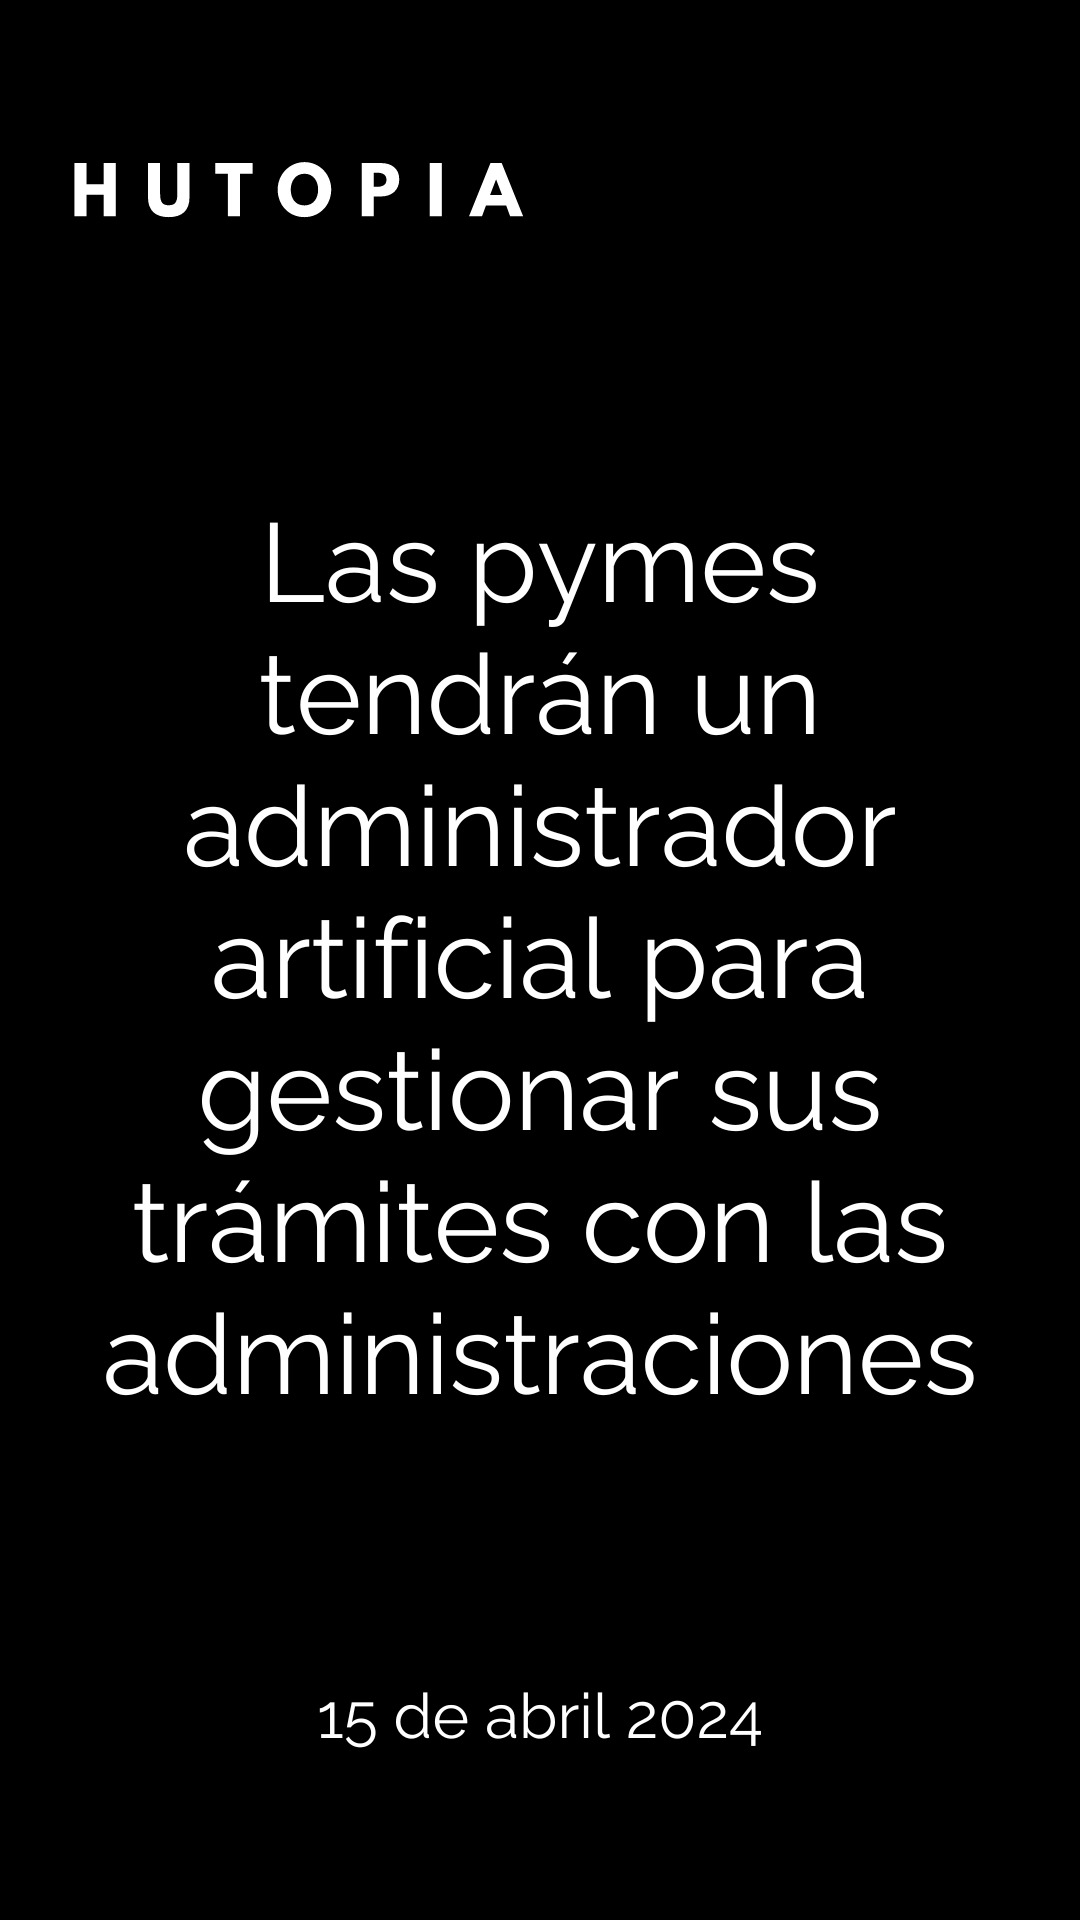
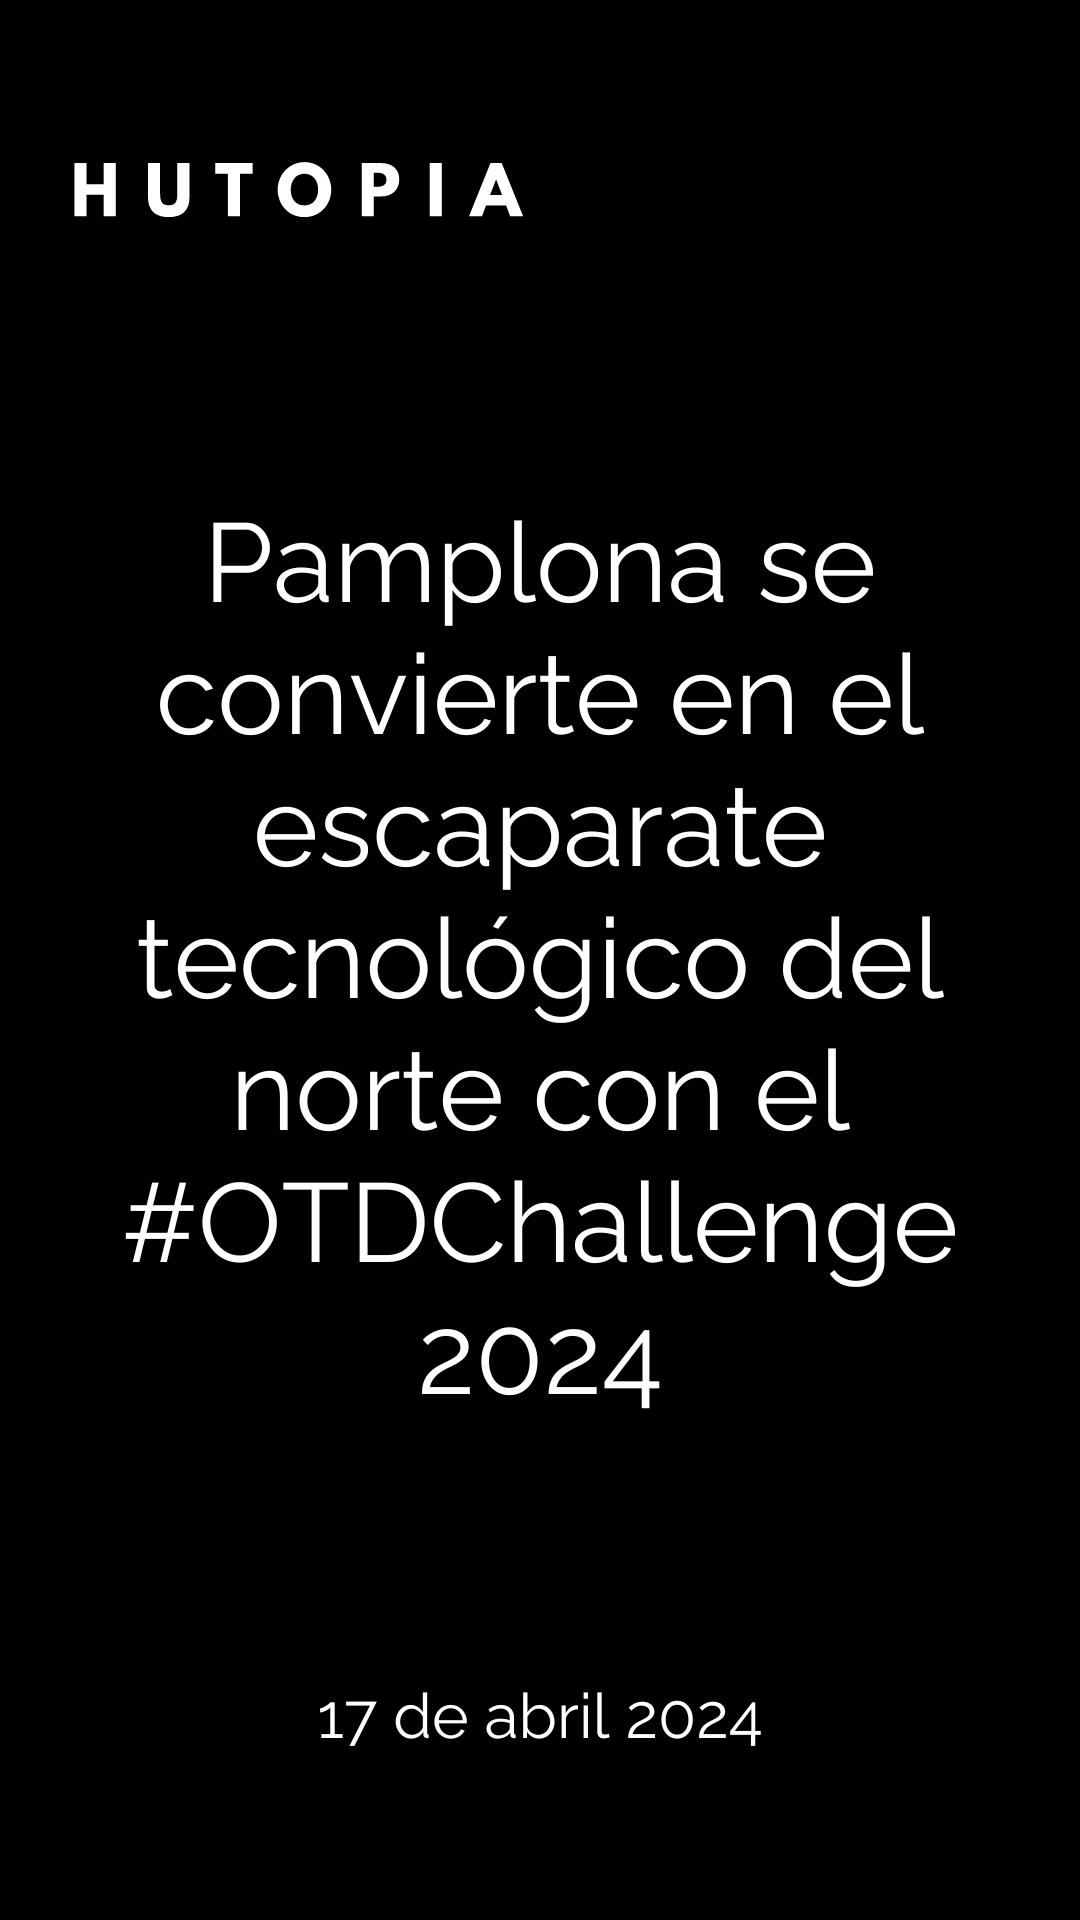
bubble 0td

diff --git a/bub20.html b/bub20.html
@@ -1,0 +1,333 @@
+<!doctype html>
+<html lang="es">
+    <head>
+        <meta charset="UTF-8">
+        <script src="https://kit.fontawesome.com/e4e5d6c1ee.js" crossorigin="anonymous"></script>
+        <title>HUTOPIA</title>
+        <link href="imagenes/PORFIN.svg" rel="shortcut icon">
+        <link href="imagenes/PORFIN.svg" rel="apple-touch-icon-precomposed">
+        <meta name="description" content="Una red humana para saltar al abismo de la Inteligencia Artificial"/>
+        <link rel="alternate" type="application/rss+xml" title="Feed de HUTOPIA" href="historias.xml">
+        <link rel="icon" href="imagenes/PORFIN.svg" sizes="32x32"/>
+        <link rel="icon" href="imagenes/PORFIN.svg" sizes="192x192"/>
+        <link rel="apple-touch-icon" href="imagenes/PORFIN.svg"/>
+        <meta name="msapplication-TileImage" content="imagenes/Logoicon.gif"/>
+          <link href="1.css" rel="stylesheet"/>
+      <link rel="preconnect" href="https://fonts.googleapis.com">
+<link rel="preconnect" href="https://fonts.gstatic.com" crossorigin>
+<link href="https://fonts.googleapis.com/css2?family=Raleway:ital,wght@0,100;1,100&display=swap" rel="stylesheet">
+        <script id="thesu-ready">
+            window.advanced_ads_ready = function(e, a) {
+                a = a || "complete";
+                var d = function(e) {
+                    return "interactive" === a ? "loading" !== e : "complete" === e
+                };
+                d(document.readyState) ? e() : document.addEventListener("readystatechange", (function(a) {
+                    d(a.target.readyState) && e()
+                }
+                ), {
+                    once: "interactive" === a
+                })
+            }
+            ,
+            window.advanced_ads_ready_queue = window.advanced_ads_ready_queue || [];
+        </script>
+
+<link rel="stylesheet" id="google-fonts-1-css" href="https://fonts.googleapis.com/css?family=Merriweather%3A100%2C100italic%2C200%2C200italic%2C300%2C300italic%2C400%2C400italic%2C500%2C500italic%2C600%2C600italic%2C700%2C700italic%2C800%2C800italic%2C900%2C900italic%7CMerriweather+Sans%3A100%2C100italic%2C200%2C200italic%2C300%2C300italic%2C400%2C400italic%2C500%2C500italic%2C600%2C600italic%2C700%2C700italic%2C800%2C800italic%2C900%2C900italic&#038;display=auto&#038;ver=6.4.3" media="all"/>
+<link rel="preconnect" href="https://fonts.gstatic.com/" crossorigin>
+      
+<script type="text/javascript" src="js/jquery.js" id="jquery-js"></script>
+        
+        
+<script type="text/javascript" src="https://thesummerhunter.com/wp-content/themes/thesummerhunter/js/lib/conditionizr-4.3.0.min.js?ver=4.3.0" id="conditionizr-js"></script>
+<script type="text/javascript" src="https://thesummerhunter.com/wp-content/themes/thesummerhunter/js/lib/modernizr-2.7.1.min.js?ver=2.7.1" id="modernizr-js"></script>
+
+     
+        
+        <script>
+            // conditionizr.com
+            // configure environment tests
+            conditionizr.config({
+                assets: '',
+                tests: {}
+            });
+        </script>
+    </head>
+    
+<!--    CUERPO DE LA PÁGINA-->
+    
+    <body>
+        
+        <div class="nav ">
+            <div class="col-12 center header-content">
+                <div class="col"></div>
+                <div class="col">
+                    <a class="header-logo" href="http://hutopia.es/">
+                        <img class="logo" src="imagenes/PORFIN.svg" alt>
+                    </a>
+                </div>
+                <div class="col"></div>
+            </div>
+        </div>
+<!-- ************************* ----->
+       <div class="menu-button"> <i class="fas fa-bars" style="color: whitesmoke;"></i> </div>
+        <div class="toggle-menu">
+            <div class="mainmenu">
+                <ul id="menu-toggle-top-menu" class="menu">
+                     <li id="vibes" class="menu-item">
+                        <a href="drops.html" target="_blank" >Drops</a>
+                    </li>
+                    <li id="people" class="menu-item">
+                        <a href="wavemakersurfers.html" target="_blank" >Wavemakers &amp; Surfers </a>
+                    </li>
+                    <li id="webstories" class="menu-item">
+                        <a href="bubbles.html" target="_blank" >Bubbles</a>
+                    </li>
+                    <li id="featured" class="menu-item">
+                        <a href="https://open.spotify.com/show/5B7fNyyHK2rpHDeorWufm5" target="_blank" >The Shore</a> </li>
+                    <li id="metaverse" class="menu-item">  <a href="https://www.roblox.com/games/16499004495/" target="_blank" > The Reef</a></li>
+<li id="menu-item-12934" class="menu-item menu-item-type-taxonomy menu-item-object-category menu-item-12933">
+            <a href="pearls.html" target="_blank">Pearls</a></li>
+
+                </ul>
+            </div>
+<div class="col-md-3">
+    <ul class="menu-header social">
+        <li class="social-media">
+            <a href="https://www.instagram.com/hutopia.es?utm_source=ig_web_button_share_sheet&igsh=ZDNlZDc0MzIxNw==" target="_blank" rel="noopener noreferrer">
+                <i class="fab fa-instagram"></i>
+            </a>
+        </li>
+        <li class="social-media">
+            <a href="https://open.spotify.com/show/5B7fNyyHK2rpHDeorWufm5" target="_blank" rel="noopener noreferrer">
+                <i class="fab fa-spotify"></i>
+            </a>
+        </li>
+        <li class="social-media">
+            <a href="https://www.linkedin.com/company/hutopia.es/" target="_blank" rel="noopener noreferrer">
+                <i class="fab fa-linkedin"></i>
+            </a>
+        </li>
+        <li class="social-media">
+            <a href="https://www.facebook.com/profile.php?id=61557282760796 " target="_blank" rel="noopener noreferrer"><i class="fab fa-facebook"></i></a>
+        </li>
+        <li class="social-media">
+            <a href="https://www.tiktok.com/@hutopia.es?is_from_webapp=1&sender_device=pc" target="_blank" rel="noopener noreferrer"><i class="fab fa-tiktok"></i></a>
+        </li>
+        <li class="social-media">
+            <a href="https://x.com/Hutopia_es?s=20" target="_blank" rel="noopener noreferrer"><i class="fa-brands fa-x-twitter"></i></a>
+        </li> 
+    </ul>
+</div>
+        </div>
+  
+<!-- ************************************************************************************************************************************************-->
+            
+<!--<! ---_____________________________ LARGO REPORTAJE _________________________ --->
+            
+<h1 class="col-12 justify-content-center align-items-center" style="margin-top: 230px; font-family: 'Raleway'; line-height: 50px">
+    <span style="font-size: 50px; font-weight: 600">Pamplona se convierte en el escaparate tecnológico <br> del norte con el  #OTDChallenge 2024 </span>
+</h1>
+<div class="contenidoprincipal"> 
+    <div class="align-items-center">
+       <p style="font-family: Raleway; font-weight: 600; color: #5284a3; text-align: center">La cita, organizada por Fundación Industrial Navarra, atrajo a Pamplona a más de un millar de participantes, que acudieron a sus ponencias, ‘masterclasses’ y demostraciones de soluciones </p>
+        </div>
+     
+     <br>
+       
+       <div style="display: flex; align-items: center;">
+           <div class="align-items-left" style="margin-right: 10px;">
+        <figure style="margin: 0;">
+            <img src="Avatar/redacarantxa.JPG" style="width: 70px; height: 100px; margin: 0;">
+        </figure>
+    </div>
+    <div class="align-items-right" style="margin-left: 10px;">
+        <p style="font-family: Raleway, sans-serif; margin: 0; text-align: left;"><strong>Arantxa García</strong></p>
+        <place style="font-family: Raleway, sans-serif; margin: 0;">Madrid |</place>
+        <publishedDate style="font-family: Raleway, sans-serif; margin: 0;">17 de abril de 2024</publishedDate>
+    </div>
+
+    <!-- Red social -->
+    <ul style="list-style: none; display: flex; margin-left: auto; padding: 0;">
+        <li class="social-media">
+            <a href="https://www.facebook.com/profile.php?id=61557282760796" target="_blank" rel="noopener noreferrer">
+                <i class="fab fa-facebook"></i>
+            </a>
+        </li>
+        <li class="social-media">
+            <a href="https://www.linkedin.com/company/hutopia.es/" target="_blank" rel="noopener noreferrer">
+                <i class="fab fa-linkedin"></i>
+            </a>
+        </li>
+        <li class="social-media">
+            <a href="https://open.spotify.com/show/5B7fNyyHK2rpHDeorWufm5" target="_blank" rel="noopener noreferrer">
+                <i class="fab fa-spotify"></i>
+            </a>
+        </li>
+        <li class="social-media">
+            <a href="https://www.instagram.com/hutopia.es?utm_source=ig_web_button_share_sheet&igsh=ZDNlZDc0MzIxNw==" target="_blank" rel="noopener noreferrer">
+                <i class="fab fa-instagram"></i>
+            </a>
+        </li>
+        <li class="social-media">
+            <a href="https://x.com/Hutopia_es?s=20" target="_blank" rel="noopener noreferrer">
+                <i class="fab fa-twitter"></i>
+            </a>
+        </li>
+        <li class="social-media">
+            <a href="https://www.tiktok.com/@hutopia.es?is_from_webapp=1&sender_device=pc" target="_blank" rel="noopener noreferrer">
+                <i class="fab fa-tiktok"></i>
+            </a>
+        </li>
+    </ul>
+</div>
+
+    <hr style="margin-bottom: 10px">  
+
+<p style="margin-top: 45px"> <span class="capitular"> “E</span>stamos llamados a alzar de nuevo el vuelo a partir de las cenizas de la industria que hemos conocido hasta ahora”. Así se expresó la directora gerente de <strong>Fundación Industrial Navarra (FIN), Elena Alemán</strong>, durante la primera jornada del <strong>#OTDChallenge 2024</strong>, celebrada en <strong>Baluarte (Pamplona)</strong>. Un encuentro organizado por FIN en colaboración con el <strong>Gobierno de Navarra</strong>, <strong>CaixaBank Day One</strong>, <strong>Elektra</strong>, <strong>Polo IRIS Navarra</strong>, <strong>Navarra Cybersecurity Center</strong>, <strong>CEIN</strong>, <strong>Autocar</strong>, <strong>Euskaltel</strong> y <strong>SKF</strong>, que en su logró atraer a más de 450 empresas, un 20 % de fuera de Navarra, y a más de un millar de participantes.
+</p>
+
+ <p>Alemán se dirigió a dicho auditorio para insistir en que “los últimos avances tecnológicos y las tendencias de digitalización están propiciando un momento donde el imperativo de la reinvención parece acelerarse”. De hecho, agradeció a todos los participantes su presencia en un foro que “no ha dejado de crecer desde su lanzamiento, hace ahora cuatro años, hasta consagrarse como un punto de encuentro clave para que las empresas puedan conocer las últimas soluciones tecnológicas y palparlas de primera mano”.</p>
+        
+<p> Y más necesario aún se antoja teniendo en cuenta los datos facilitados por el consejero de Industria y de Transición Ecológica y Digital Empresarial del Gobierno de Navarra, <strong>Mikel Irujo</strong>. En su intervención, presentó el último diagnóstico sobre Industria 4.0 de su departamento, donde se analiza la situación en la que se encuentra la digitalización en el tejido productivo de la Comunidad foral. Por ejemplo, remarcó que el 68,18 % de las empresas encuestadas “no dispone de una estrategia de digitalización”, mientras que el 58,57 % “no reconocen los beneficios asociados a la transformación digital”. </p>
+    
+<p>Como complemento de todo lo anterior, casi cuatro de cada diez que capturan datos digitales “no los explota”. Teniendo en cuenta estos grandes números, la conclusión de Irujo fue clara: “Somos más que conscientes de que todavía queda mucho por hacer. Porque, sin transformación digital, no vamos a poder mejorar nuestra industria”. </p>
+
+        <p> <span class="ladillo">‘MASTERCLASSES’ Y PONENCIAS</span></p>
+
+<p> Finalizadas las palabras de bienvenida, fue el turno de las masterclasses. El CEO Digital Industries de <strong>Siemens</strong> España, <strong>José Ramón Castro</strong>, describió un escenario global condicionado por “megatendencias” como el cambio climático, la concentración en grandes metrópolis o el paulatino proceso de cambio demográfico y envejecimiento de la población, entre otros. “En este contexto, la industria se enfrenta a un reto gigantesco: saber producir más con menos”, sentenció. </p>
+
+<p> Un proceso que le obligará a dar respuesta a procesos como la progresiva individualización de los productos, la gestión de los riesgos, el time-to-market (o tiempo necesario para que un producto o servicio pase desde la etapa de concepción o desarrollo hasta que está disponible para su venta) y la falta de talento: “En definitiva, solo la tecnología nos permitirá adaptarnos, ser más flexibles, rápidos y eficientes para responder de forma adecuada a los nuevos mercados y sus demandas”. En el caso de Siemens, la solución por la que han apostado es un  gemelo digital que les permite, “con una estructura robusta y un nivel de ciberseguridad muy elevado”, poder conceptualizar sus futuros desarrollos desde el inicio hasta su venta final al cliente. «El ‘ensayo-error’ ha quedado obsoleto porque, a partir de ahora, siempre vamos a estar compitiendo. Y, para lograrlo, la única opción que queda es pasar del mundo virtual al real de la forma más rápida y eficiente posible», constató. </p>
+
+<p> La segunda masterclass, a cargo de <strong>Salvador Trujillo</strong>, CEO de <strong>Orbik Cybersegurity</strong>, se centró en la nueva ley EU Cyber Resilience Act-CRA, que será ratificada por la UE este 2024. Una normativa que “obligará a que los productos y servicios digitales que lleguen al mercado comunitario sean ciberseguros en diseño y estén libres de vulnerabilidades”. En su opinión, la nueva legislación “tendrá un alto impacto” en el tejido productivo del Viejo Continente y “especialmente en las pymes”, a las que recomendó informarse de forma adecuada para poder cumplir las obligaciones previstas en dicha legislación. </p>
+
+     
+<br>
+<br>
+        <hr style="width: 350px; border-color: #b4e7f8">  
+        <div class="align-items-center">
+        <a href="bubbles.html" target="_blank"> <span style="font-family: Raleway"><strong>+</strong></span></a>
+        </div>
+        </div>
+    
+<!-- FOOTER | PIE DE PÁGINA -->
+    
+    <section>
+    <div class="row footer align-items-center center">
+    <div class="col-md-3"> <img class="logo" src="imagenes/PORFIN.svg" alt=""></div>
+    
+    <div class="col-md-6"><ul id="menu-footer" class="menu-footer">
+         <li id="menu-item-12930" class="menu-item menu-item-type-custom menu-item-object-custom current-menu-item current_page_item menu-item-home menu-item-12930"><a href="index.html" aria-current="page">Home</a></li>
+        <li id="menu-item-12932" class="menu-item menu-item-type-taxonomy menu-item-object-category menu-item-12932">
+            <a href="horizon.html" target="_blank" >Horizon</a></li>
+         <li id="menu-item-12931" class="menu-item menu-item-type-taxonomy menu-item-object-category menu-item-12931">
+            <a href="tripulacion.html" target="_blank" >The Crew</a></li>
+        <li id="menu-item-12933" class="menu-item menu-item-type-taxonomy menu-item-object-category menu-item-12933">
+            <a href="newsletter.hmtl" target="_blank" >Newsletter</a></li>
+       <li id="menu-item-12934" class="menu-item menu-item-type-taxonomy menu-item-object-category menu-item-12933">
+            <a href="pearls.html" target="_blank">Pearls</a></li>
+
+        </ul>
+    </div>
+    
+<div class="col-md-3">
+    <ul class="menu-footer social">
+        <li class="social-media">
+            <a href="https://www.instagram.com/hutopia.es?utm_source=ig_web_button_share_sheet&igsh=ZDNlZDc0MzIxNw==" target="_blank" rel="noopener noreferrer">
+                <i class="fab fa-instagram"></i>
+            </a>
+        </li>
+        <li class="social-media">
+            <a href="https://open.spotify.com/show/5B7fNyyHK2rpHDeorWufm5" target="_blank" rel="noopener noreferrer">
+                <i class="fab fa-spotify"></i>
+            </a>
+        </li>
+        <li class="social-media">
+            <a href="https://www.linkedin.com/company/hutopia.es/" target="_blank" rel="noopener noreferrer">
+                <i class="fab fa-linkedin"></i>
+            </a>
+        </li>
+        <li class="social-media">
+            <a href="https://www.facebook.com/profile.php?id=61557282760796 " target="_blank" rel="noopener noreferrer"><i class="fab fa-facebook"></i></a>
+        </li>
+        <li class="social-media">
+            <a href="https://www.tiktok.com/@hutopia.es?is_from_webapp=1&sender_device=pc" target="_blank" rel="noopener noreferrer"><i class="fab fa-tiktok"></i></a>
+        </li>
+        <li class="social-media">
+            <a href="https://x.com/Hutopia_es?s=20" target="_blank" rel="noopener noreferrer"><i class="fa-brands fa-x-twitter"></i></a>
+        </li> 
+    </ul>
+    </div>
+        </div>
+         </section>
+        
+<!--    *****ARCHIVOS JAVA*****        -->
+        <script>
+            jQuery('.epu-close, .epu-mask, .epu-rejection, .epu-question').click(function() {
+                jQuery('.epu, .epu-mask').remove();
+                Cookies.set('epu-abandono-pagina', 'dismissed', {
+                    expires: 1
+                });
+            });
+
+            jQuery(document).mouseleave(function() {
+                jQuery('.epu, .epu-mask').css('display', 'block');
+            });
+        </script>
+        <script type="text/javascript">
+            const lazyloadRunObserver = ()=>{
+                const dataAttribute = 'data-e-bg-lazyload';
+                const lazyloadBackgrounds = document.querySelectorAll(`[${dataAttribute}]:not(.lazyloaded)`);
+                const lazyloadBackgroundObserver = new IntersectionObserver((entries)=>{
+                    entries.forEach((entry)=>{
+                        if (entry.isIntersecting) {
+                            let lazyloadBackground = entry.target;
+                            const lazyloadSelector = lazyloadBackground.getAttribute(dataAttribute);
+                            if (lazyloadSelector) {
+                                lazyloadBackground = entry.target.querySelector(lazyloadSelector);
+                            }
+                            if (lazyloadBackground) {
+                                lazyloadBackground.classList.add('lazyloaded');
+                            }
+                            lazyloadBackgroundObserver.unobserve(entry.target);
+                        }
+                    }
+                    );
+                }
+                ,{
+                    rootMargin: '100px 0px 100px 0px'
+                });
+                lazyloadBackgrounds.forEach((lazyloadBackground)=>{
+                    lazyloadBackgroundObserver.observe(lazyloadBackground);
+                }
+                );
+            }
+            ;
+            const events = ['DOMContentLoaded', 'elementor/lazyload/observe', ];
+            events.forEach((event)=>{
+                document.addEventListener(event, lazyloadRunObserver);
+            }
+            );
+        </script>
+  <!--/**/-->
+        <script type="text/javascript" src="js/flickity.js" id="flickity-js"></script>
+    
+       <script type="text/javascript" src="js/lazyload.js" id="lazyload-js"></script>
+        
+       <script type="text/javascript" src="js/js.js" id="html5blankscripts-js"></script>
+       
+       <script type="text/javascript" src="js/slick.js" id="slick-js"></script>
+        
+       <script type="text/javascript" src="js/custom.js" id="custom-js"></script> 
+        
+             
+        <script type="text/javascript" src="js/load.more.js" id="load_more_webstories-js"></script>
+        
+  <!--/**/-->       
+           
+    </body>
+</html>
+
+
+
+

diff --git a/index.html b/index.html
@@ -540,7 +540,7 @@ margin-left: 0px;
     
   </div>
   <div class="community_column-wrapper">
-      <a href="-">   <img src="bubblesV/BubblesV.png" alt="Imagen 3"> </a>
+      <a href="bub20.html">   <img src="bubblesV/bub20.png" alt="Imagen 3"> </a>
       <a href="bub13.html">   <img src="bubblesH/bu13.png" alt="Imagen 3"> </a>
       <a href="bub7.html"><img src="bubblesH/bub6.png" alt="Imagen 3"></a>
    
